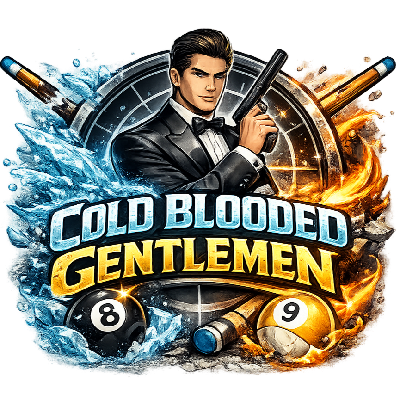
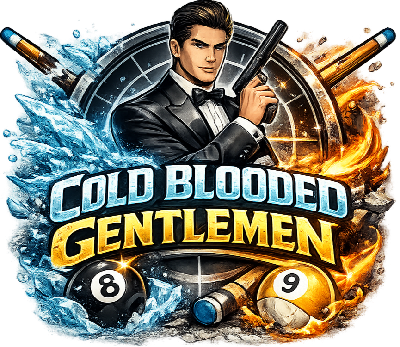
Add files via upload
team image updates

diff --git a/wedTeam.html b/wedTeam.html
@@ -198,7 +198,7 @@
                 <div class="cardBody">
                     <div class="teamImg">
                         <img
-                            src="./assets/images/vladimirPoolin.png"
+                            src="./assets/images/vladimirPoolin2.png"
                             id="vladimirLogo"
                         />
                     </div>
